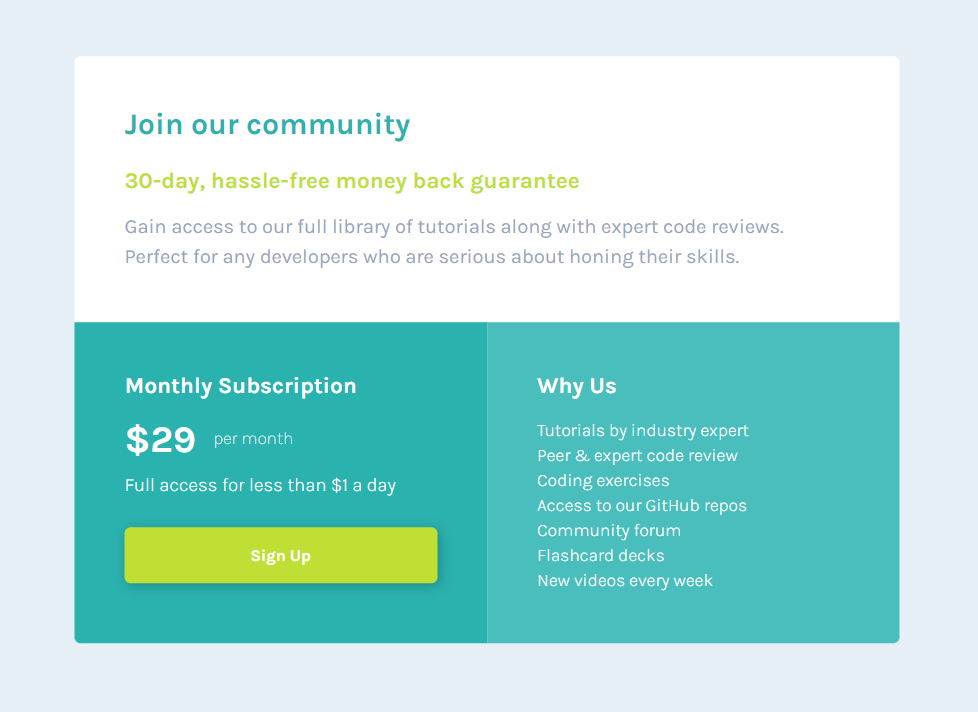
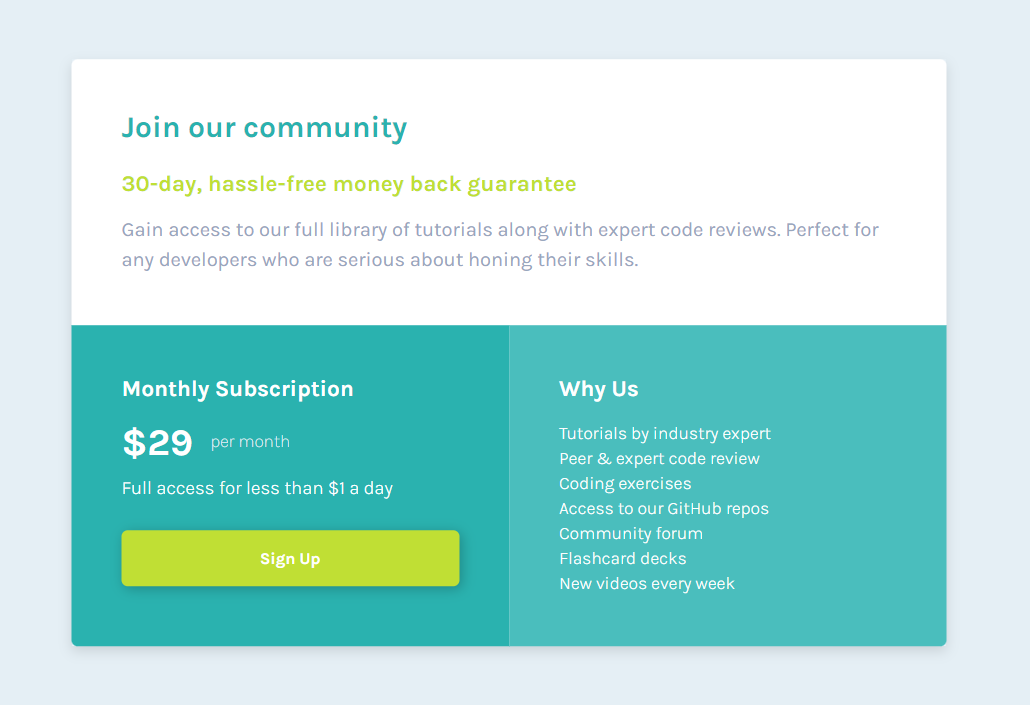
update style and screenshots

diff --git a/styles/style.css b/styles/style.css
@@ -25,9 +25,8 @@ body {
 }
 
 main {
-    max-width: 330px;
-    padding: 20px;
-    margin: 0 auto;
+    max-width: 300px;
+    margin: 20px auto;
 }
 
 section {
@@ -64,7 +63,7 @@ strong {
 
 h2 {
     color: white;
-    font-size: 16px;
+    font-size: 14px;
     margin-bottom: 15px;
 }
 
@@ -83,6 +82,7 @@ span {
 
 .subscription > p {
     color: white;
+    font-size: 15px;
     font-weight: 300;
     margin-top: 5px;
     margin-bottom: 25px;
@@ -95,7 +95,7 @@ button {
     font-weight: 700;
     font-size: 13px;
     width: 100%;
-    padding: 10px;
+    padding: 13px;
     border: none;
     border-radius: 5px;
     box-shadow: 2px 2px 10px rgba(0, 0, 0, 0.236);

diff --git a/styles/media-query.css b/styles/media-query.css
@@ -17,7 +17,9 @@
         grid-template-columns: repeat(2, 1fr);
 
         max-width: 700px;
-        margin: 0 auto;
+        margin: auto;
+
+        box-shadow: 0px 4px 10px rgba(0, 0, 0, 0.122);
 
         transform: translate(-50%, -50%);
     } 
